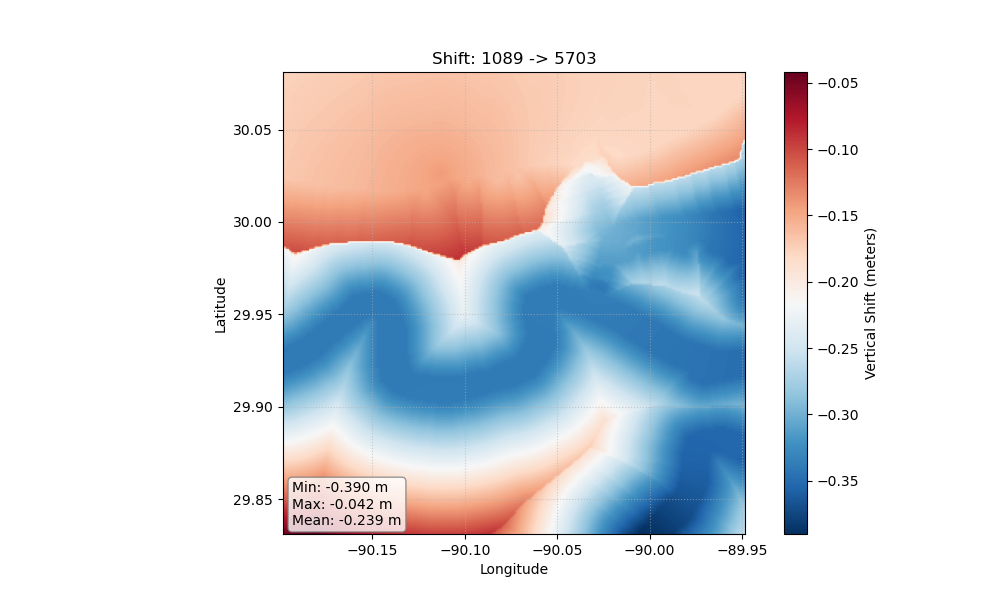
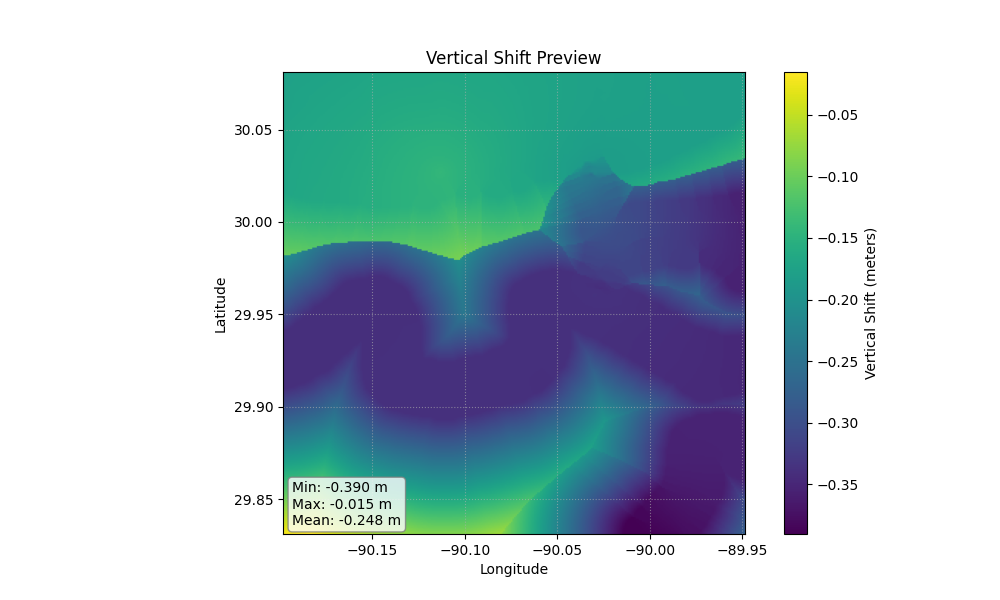
README updates; plot_grid in api (#21)
* update README, plot_grid to api, --preview in run

* update README

* update README

* update README

* update README

* update README

* update README

* README formatting

* README formatting

* update changelog

diff --git a/src/transformez/cli.py b/src/transformez/cli.py
@@ -15,6 +15,7 @@ import sys
 import click
 import logging
 from transformez import api
+from transformez import grid_engine
 
 logger = logging.getLogger(__name__)
 
@@ -35,13 +36,14 @@ def transformez_cli():
 @click.option("-O", "--output-datum", required=True, help="Target Datum (e.g., '4979', '5703:g2012b').")
 @click.option("--out", "-o", help="Output filename (default: auto-named).")
 @click.option("--decay-pixels", type=int, default=100, help="Number of pixels to decay tidal shifts inland.")
-def transform_run(input_file, region, increment, input_datum, output_datum, out, decay_pixels):
+@click.option("--preview", is_flag=True, help="Preview the transformation output.")
+def transform_run(input_file, region, increment, input_datum, output_datum, out, decay_pixels, preview):
     """Transform a raster's vertical datum or generate a standalone shift grid.
 
     If an INPUT_FILE is provided, that specific raster is transformed in place.
     If no INPUT_FILE is provided, -R and -E must be used to generate a shift grid.
 
-    Examples:
+    Examples:\n
       Transform a DEM : transformez run my_dem.tif -I mllw -O 5703
       Generate a Grid : transformez run -R loc:"Miami" -E 1s -I mllw -O 4979
     """
@@ -66,7 +68,7 @@ def transform_run(input_file, region, increment, input_datum, output_datum, out,
             sys.exit(1)
 
     elif region and increment:
-        click.secho(f"Generating vertical shift grid for region...", fg="cyan", bold=True)
+        click.secho(f"Generating vertical shift grid for region: {region}...", fg="cyan", bold=True)
         click.echo(f"   Shift: {input_datum} ➔ {output_datum} @ {increment}")
 
         # Auto-generate an output name if one wasn't provided
@@ -81,6 +83,9 @@ def transform_run(input_file, region, increment, input_datum, output_datum, out,
             out_fn=out_fn,
             verbose=True
         )
+
+        if preview:
+            api.plot_grid(result, region)
 
         if result is not None:
             click.secho(f"Successfully generated shift grid: {out_fn}", fg="green", bold=True)

diff --git a/src/transformez/api.py b/src/transformez/api.py
@@ -56,6 +56,54 @@ def _parse_datum(datum_arg: str) -> Tuple[Optional[int], Optional[str]]:
     return Datums.get_vdatum_by_name(s), None
 
 
+def plot_grid(grid_array, region, title="Vertical Shift Preview"):
+    """Plot the transformation grid using Matplotlib."""
+
+    try:
+        import matplotlib.pyplot as plt
+    except ImportError:
+        logger.warning("Matplotlib is not installed. Cannot generate preview.")
+        return
+
+    if isinstance(region, Region):
+        region_obj = region
+    else:
+        regions = parse_region(region)
+        if not regions:
+            logger.error(f"Could not parse region: {region}")
+            return None
+        region_obj = regions[0]
+
+    masked_data = np.ma.masked_where(
+        (np.isnan(grid_array)) | (grid_array == -9999) | (grid_array == 0),
+        grid_array
+    )
+
+    if masked_data.count() == 0:
+        logger.warning("Preview skipped: Grid contains no valid data.")
+        return
+
+    plt.figure(figsize=(10, 6))
+    plot_region = [region_obj.xmin, region_obj.xmax, region_obj.ymin, region_obj.ymax]
+
+    # im = plt.imshow(masked_data, extent=plot_region, cmap="RdBu_r", origin="upper")
+    im = plt.imshow(masked_data, extent=plot_region, cmap="viridis", origin="upper")
+    cbar = plt.colorbar(im)
+    cbar.set_label("Vertical Shift (meters)")
+    plt.title(title)
+    plt.xlabel("Longitude")
+    plt.ylabel("Latitude")
+    plt.grid(True, linestyle=':', alpha=0.6)
+
+    stats = (f"Min: {masked_data.min():.3f} m\n"
+             f"Max: {masked_data.max():.3f} m\n"
+             f"Mean: {masked_data.mean():.3f} m")
+    plt.annotate(stats, xy=(0.02, 0.02), xycoords='axes fraction',
+                 bbox=dict(boxstyle="round,pad=0.3", fc="white", ec="gray", alpha=0.8))
+    logger.info("Displaying preview... Close the plot window to continue.")
+    plt.show()
+
+
 def generate_grid(
     region: Union[List[float], str, Region],
     increment: Union[str, float],

diff --git a/README.md b/README.md
@@ -21,6 +21,8 @@
 ![Shift Grid Example](docs/images/mllw2nvd.png)
 *(Above: A generated vertical shift grid transforming MLLW to NAVD88)*
 
+```transformez run -R loc:"new orleans" -E 3s -I mllw -O 5703```
+
 ## Installation
 
 ### Prerequisites: HTDP
@@ -59,20 +61,14 @@ pip install transformez
 
 ```bash
 # Transform MLLW to WGS84 Ellipsoid in Norton Sound, AK
-# (Where NOAA has no coverage!)
-transformez -R -166/-164/63/64 -E 3s \
-    --input-datum mllw \
-    --output-datum 4979 \
-    --output shift_ak.tif
+
+transformez run -R -166/-164/63/64 -E 1s -I mllw -O 4979
 ```
 
 **Transform a raster directly.** Transformez reads the bounds/resolution from the file.
 
 ```bash
-transformez --dem input_bathymetry.tif \
-    --input-datum "mllw" \
-    --output-datum "5703:geoid=geoid12b" \
-    --output output_navd88.tif
+transformez run my_dem.tif -I mllw -O 5703
 ```
 
 **Integrate directly into your download pipeline.**
@@ -118,13 +114,48 @@ out_file = transformez.transform_raster(
 
 ## Supported Datums
 
-* **Tidal**: mllw, mhhw, msl, lat
+🌊 **Supported Tidal Surfaces:**
 
-* **Ellipsoidal**: 4979 (WGS84), 6319 (NAD83 2011)
+| EPSG | NAME |DESC |
+| --- | --- | --- |
+|  1089         | mllw                        |   [USA] |
+|  5866         | mllw                        |   [USA]|
+|  1091         | mlw                         |   [USA]|
+|  5869         | mhhw                        |   [USA]|
+|  5868         | mhw                         |   [USA]|
+|  5714         | msl                         |   [USA]|
+|  5713         | mtl                         |   [USA]|
+|  0            | crd                         |   [USA]|
+|  5609         | IGLD85                      |   [USA]|
+|  9000         | LWD_IGLD85                  |   [USA]|
+|  5702         | NGVD29                      |   [GLOBAL]|
+|  9001         | lat                         |   [GLOBAL]|
+|  9002         | hat                         |   [GLOBAL]|
+|  9003         | mss                         |   [GLOBAL]|
 
-* **Orthometric**: 5703 (NAVD88), egm2008, egm96
+🌐 **Ellipsoidal / Frame Datums (EPSG)**:
 
-* **Geoids**: g2018, g2012b, geoid09, xgeoid20b
+| EPSG | NAME |DESC |
+| --- | --- | --- |
+|  4979         | WGS84 | World Geodetic System 1984 |
+|  6319         | NAD83 | North American Datum 1983 |
+
+🏔  **Orthometric / Geoid-Based (EPSG)**:
+
+| EPSG | NAME |DESC |
+| --- | --- | --- |
+|  5703         | NAVD88 height            |      (Default Geoid: g2018)|
+|  6360         | NAVD88 height (usFt)     |      (Default Geoid: g2018)|
+|  8228         | NAVD88 height (Ft)       |      (Default Geoid: g2018)|
+|  6641         | PRVD02 height            |      (Default Geoid: g2018)|
+|  6642         | VIVD09 height            |      (Default Geoid: g2018)|
+|  6647         | CGVD2013(CGG2013)        |      (Default Geoid: CGG2013)|
+|  3855         | EGM2008 height           |      (Default Geoid: egm2008)|
+|  5773         | EGM96 height             |      (Default Geoid: egm96)|
+
+🌍 **Available Geoids**:
+
+  g2018, g2012b, geoid09, xgeoid20b, xgeoid19b, egm2008, egm96, CGG2013
 
 ## License
 

diff --git a/CHANGELOG.md b/CHANGELOG.md
@@ -5,6 +5,17 @@ All notable changes to this project will be documented in this file.
 The format is based on [Keep a Changelog](https://keepachangelog.com/en/1.0.0/),
 and this project adheres to [Semantic Versioning](https://semver.org/spec/v2.0.0.html).
 
+## [ Unreleased] 
+
+### Added
+- support for FES2014
+- Coastal blend where vdatum cuts off
+- decay extrapolation to 0 inland from tidal datums
+- Add API
+
+### Changed
+- cli now uses click
+
 ## [0.1.0] - 2026-02-10
 ### Added
 
